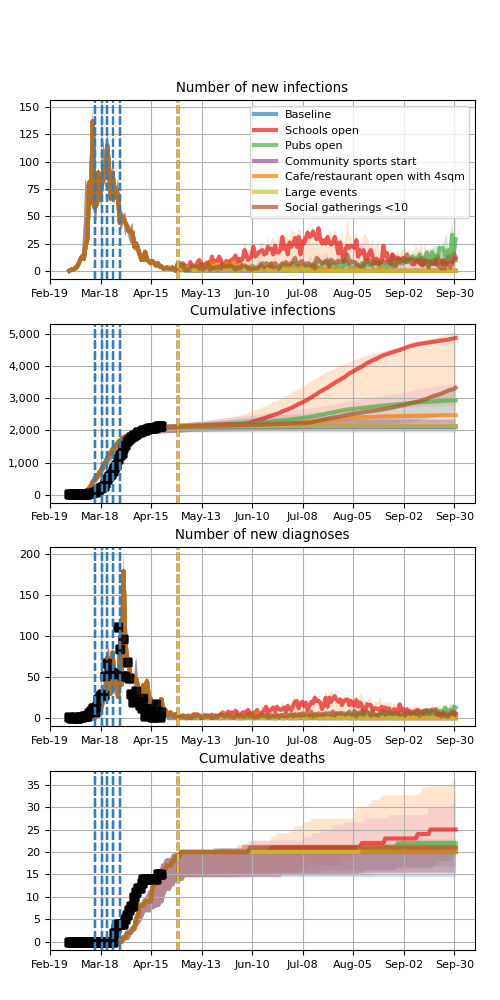
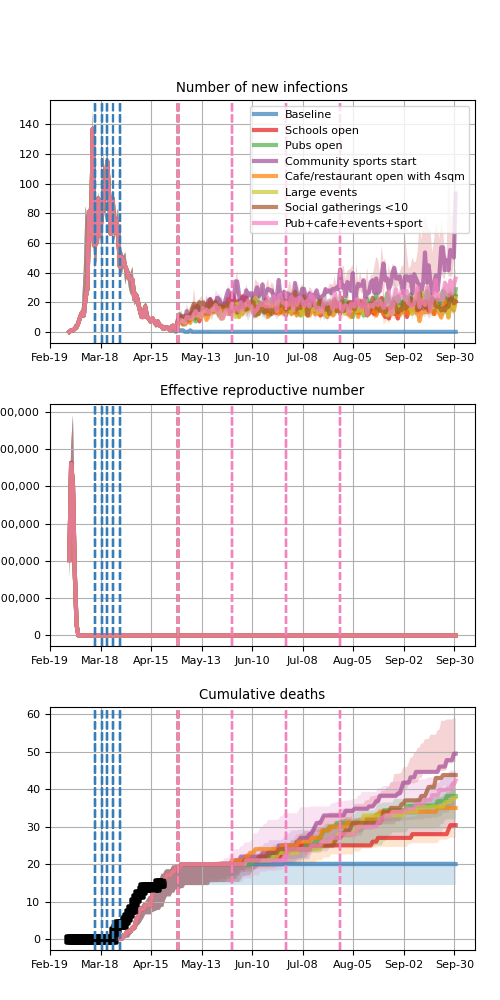
minor fix

diff --git a/build_policy_scens.py b/build_policy_scens.py
@@ -3,8 +3,6 @@ Load Australian epi data
 '''
 
 import matplotlib
-matplotlib.use('Agg')
-matplotlib.use('TkAgg')
 import sciris as sc
 import covasim as cv
 import utils, load_parameters, load_pop, policy_changes, os
@@ -113,6 +111,9 @@ if __name__ == '__main__': # need this to run in parallel on windows
         torun['Social gatherings <10'] = {'turn_off': {}, 'turn_on': {}, 'replace': {}}
         torun['Social gatherings <10']['turn_off'] = {'off_pols': ['social'], 'dates': [extra_pars['relax_day']]}
         torun['Social gatherings <10']['replace']['communication'] = {'replacements': ['comm_relax'], 'dates': [extra_pars['relax_day']]}
+        torun['Pub+cafe+events+sport'] = {'turn_off': {}, 'turn_on': {}, 'replace': {}}
+        torun['Pub+cafe+events+sport']['turn_off'] = {'off_pols': ['large_events', 'pub_bar0', 'cafe_restaurant0', 'cSports'], 'dates': [60,90,120,150]}
+        torun['Pub+cafe+events+sport']['replace']['communication'] = {'replacements': ['comm_relax'],'dates': [extra_pars['relax_day']]}
 
         labels = utils.pretty_labels # A list of short, but nicer labels for policies currently in vic-data
 
@@ -137,6 +138,7 @@ if __name__ == '__main__': # need this to run in parallel on windows
         if for_powerpoint:
             to_plot1 = ['new_infections', 'cum_infections', 'cum_deaths']
         else:
-            to_plot1 = ['new_infections', 'cum_infections', 'new_diagnoses', 'cum_deaths']
+            to_plot1 = ['new_infections', 'r_eff', 'cum_deaths']
 
-        utils.policy_plot(scens, plot_ints=True, do_save=do_save, do_show=do_show, fig_path=this_fig_path, interval=28, fig_args=fig_args,font_size=8, to_plot=to_plot1)
+        utils.policy_plot(scens, plot_ints=True, do_save=do_save, do_show=do_show, fig_path=this_fig_path, interval=28,
+                          fig_args=fig_args,font_size=8, y_lim=2, to_plot=to_plot1)

diff --git a/policy_changes.py b/policy_changes.py
@@ -119,8 +119,8 @@ def create_scens(torun, policies, baseline_policies, base_scenarios, pars, extra
             'interventions': [
                 relax_all_policies,
                 cv.dynamic_pars({  # jump start with imported infections
-                    'n_imports': dict(days=np.append(range(len(i_cases)), np.arange(relax_day, restart_imports_length)),
-                                      vals=np.append(i_cases, [restart_imports] * (restart_imports_length - relax_day)))
+                    'n_imports': dict(days=np.append(range(len(i_cases)), np.arange(relax_day, min(n_days,restart_imports_length))),
+                                      vals=np.append(i_cases, [restart_imports] * (min(n_days,restart_imports_length) - relax_day)))
                 }),
                 cv.test_num(daily_tests=np.append(daily_tests, [future_tests] * (n_days - len(daily_tests))), symp_test=10.0, quar_test=1.0,
                             sensitivity=0.7, test_delay=3, loss_prob=0),
